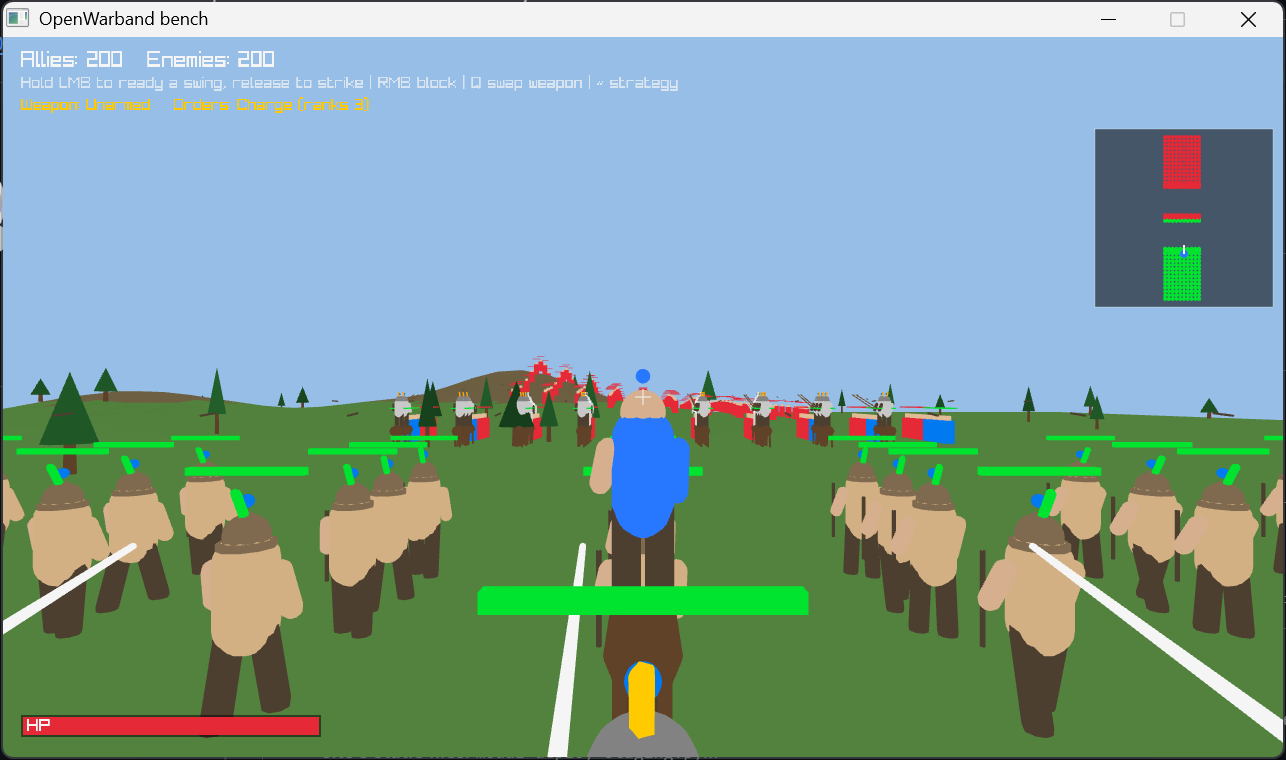
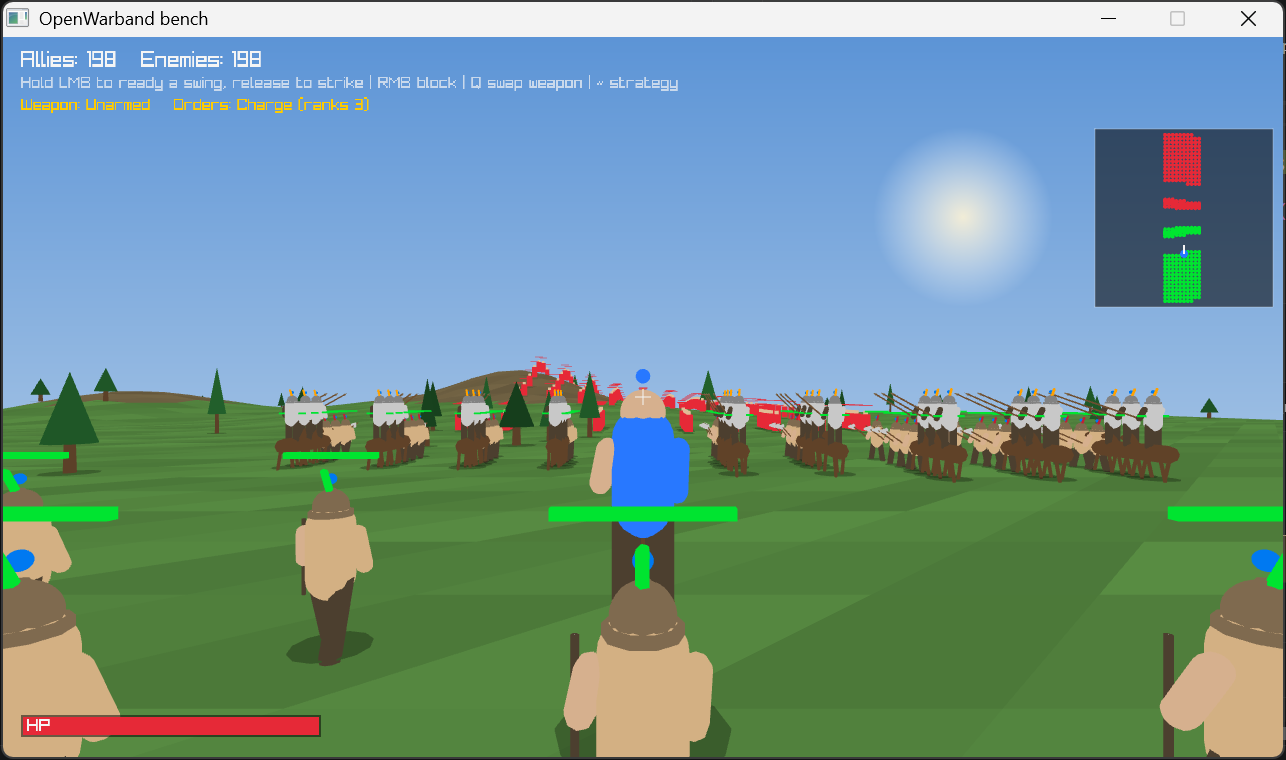
art: visual overhaul pass 1 — sky, sun, shadows, painted overworld
The user's bar: 'the game still does not look like a real video game.'
Pass 1 attacks the flatness:

- Battle sky is a vertical gradient with a glowing sun instead of a
  flat fill (ClearBackground kept first — it clears the depth buffer;
  dropping it blanked the whole 3D pass)
- Soft blob shadows pinned to the terrain under every soldier, horse,
  hero and tree — instant depth grounding
- Per-triangle color jitter so terrain reads textured, not vector-flat
- Campaign map painted: biome patches from the same noise as battle
  terrain, forest clumps, snow-capped mountain ridges, roads threading
  the settlements — replacing flat green + gridlines

README screenshots refreshed. Verified by windowed screenshots of both
scenes.

diff --git a/src/campaign/campaign.cpp b/src/campaign/campaign.cpp
@@ -846,14 +846,55 @@ void CampaignDraw(const GameState& gs) {
     const int nearSkirmish = NearestSkirmishIndex(gs);
 
     BeginDrawing();
-    ClearBackground(Color{ 60, 92, 48, 255 });
+    ClearBackground(Color{ 40, 58, 36, 255 });   // beyond the map's edge
 
     BeginMode2D(cam);
+    // Painted ground: biome patches from the SAME noise that shapes battle
+    // terrain, so the map foreshadows the battlefield you'd fight on.
+    constexpr int CELL = 100;
+    for (int gy = 0; gy < (int)MAP_SIZE / CELL; ++gy) {
+        for (int gx = 0; gx < (int)MAP_SIZE / CELL; ++gx) {
+            const float wx = gx * CELL + CELL * 0.5f;
+            const float wy = gy * CELL + CELL * 0.5f;
+            const float n1 = sinf(wx * 0.0031f) * cosf(wy * 0.0027f);   // hills
+            const float n2 = sinf(wx * 0.0012f + wy * 0.0019f);         // forests
+            const Color ground = { (unsigned char)(66 + 20.0f * n1),
+                                   (unsigned char)(98 + 14.0f * n2),
+                                   (unsigned char)(48 + 10.0f * n1), 255 };
+            DrawRectangle(gx * CELL, gy * CELL, CELL, CELL, ground);
+
+            unsigned int h = (unsigned)(gx * 73856093) ^ (unsigned)(gy * 19349663);
+            h ^= h >> 13;
+            if (n2 > 0.35f) {   // forest clumps
+                for (int t = 0; t < 5; ++t) {
+                    h = h * 1664525u + 1013904223u;
+                    const float tx = gx * CELL + (h & 63) + 16;
+                    const float ty = gy * CELL + ((h >> 8) & 63) + 16;
+                    DrawTriangle({ tx, ty }, { tx + 10, ty }, { tx + 5, ty - 16 },
+                                 Color{ 34, 66, 34, 255 });
+                }
+            } else if (n1 > 0.55f) {   // mountain ridges
+                for (int t = 0; t < 3; ++t) {
+                    h = h * 1664525u + 1013904223u;
+                    const float tx = gx * CELL + (h & 63) + 12;
+                    const float ty = gy * CELL + ((h >> 8) & 63) + 24;
+                    DrawTriangle({ tx, ty }, { tx + 22, ty }, { tx + 11, ty - 20 },
+                                 Color{ 118, 112, 108, 255 });
+                    DrawTriangle({ tx + 7, ty - 12 }, { tx + 15, ty - 12 },
+                                 { tx + 11, ty - 20 }, Color{ 226, 228, 232, 255 });
+                }
+            }
+        }
+    }
+
+    // Roads thread the settlements together.
+    for (int a = 0; a < (int)gs.towns.size(); ++a)
+        for (int b = a + 1; b < (int)gs.towns.size(); ++b)
+            if (Vector2Distance(gs.towns[a].pos, gs.towns[b].pos) < 1350)
+                DrawLineEx(gs.towns[a].pos, gs.towns[b].pos, 5,
+                           Fade(Color{ 128, 106, 76, 255 }, 0.45f));
+
     DrawRectangleLinesEx(Rectangle{ 0, 0, MAP_SIZE, MAP_SIZE }, 6, DARKBROWN);
-    for (int x = 0; x <= (int)MAP_SIZE; x += 200)
-        DrawLine(x, 0, x, (int)MAP_SIZE, Color{ 70, 102, 58, 255 });
-    for (int y = 0; y <= (int)MAP_SIZE; y += 200)
-        DrawLine(0, y, (int)MAP_SIZE, y, Color{ 70, 102, 58, 255 });
 
     for (const Town& t : gs.towns) {
         switch (t.type) {

diff --git a/src/battle/battle.cpp b/src/battle/battle.cpp
@@ -94,13 +94,18 @@ Color SurfaceColor(float height, float slope, float shade) {
     return c;
 }
 
-// Flat-shaded colour for a triangle from its three corners.
+// Flat-shaded colour for a triangle from its three corners, with a little
+// per-triangle jitter so the ground reads as textured, not vector-flat.
 Color TriangleColor(Vector3 a, Vector3 b, Vector3 c) {
     const Vector3 n = Vector3Normalize(
         Vector3CrossProduct(Vector3Subtract(b, a), Vector3Subtract(c, a)));
     const float slope = 1.0f - fabsf(n.y);
     const float h = (a.y + b.y + c.y) / 3.0f;
-    const float shade = 0.75f + 0.25f * fabsf(n.y);   // face the light a little
+    unsigned int hash = (unsigned)(a.x * 37.0f) * 73856093u ^
+                        (unsigned)(a.z * 41.0f) * 19349663u;
+    hash ^= hash >> 13;
+    const float jitter = 0.92f + 0.16f * ((hash & 0xFF) / 255.0f);
+    const float shade = (0.75f + 0.25f * fabsf(n.y)) * jitter;
     return SurfaceColor(h, slope, shade);
 }
 
@@ -347,6 +352,8 @@ void Terrain::Draw() const {
 
     // trees
     for (const Tree& t : trees_) {
+        DrawCylinder({ t.pos.x, t.pos.y + 0.04f, t.pos.z }, t.radius * 1.1f,
+                     t.radius * 1.1f, 0.02f, 10, Fade(BLACK, 0.25f));   // shadow
         const Vector3 base     = t.pos;
         const Vector3 trunkTop = { base.x, base.y + t.height * 0.4f, base.z };
         const Vector3 crownMid = { base.x, base.y + t.height * 0.3f, base.z };
@@ -785,6 +792,12 @@ AICmd ComputeAI(const Content& c, int i, float dt, FormationType formation,
 }
 
 Color TeamTint(Team t) { return t == Team::Enemy ? RED : BLUE; }
+
+// Soft blob shadow pinned to the terrain — the cheapest depth cue there is.
+void BlobShadow(const Terrain& t, float x, float z, float r) {
+    DrawCylinder({ x, t.HeightAt(x, z) + 0.04f, z }, r, r, 0.02f, 12,
+                 Fade(BLACK, 0.28f));
+}
 
 // The horse: barrel, neck + head, four trotting legs. The rider is drawn by
 // the caller, seated 1.25 above `pos`.
@@ -1227,7 +1240,12 @@ void BattleDraw(const Content& c) {
 
     // ================= DRAW =================
     BeginDrawing();
-    ClearBackground(Color{ 150, 190, 230, 255 });
+    ClearBackground(Color{ 92, 148, 214, 255 });   // also clears the DEPTH buffer
+    // Sky: a vertical gradient with a low sun, instead of a flat fill.
+    DrawRectangleGradientV(0, 0, GetScreenWidth(), GetScreenHeight(),
+                           Color{ 92, 148, 214, 255 }, Color{ 208, 224, 238, 255 });
+    DrawCircleGradient(GetScreenWidth() * 3 / 4, GetScreenHeight() / 4, 90,
+                       Fade(Color{ 255, 244, 214, 255 }, 0.9f), Fade(WHITE, 0.0f));
 
     BeginMode3D(cam);
     B.terrain.Draw();
@@ -1262,6 +1280,7 @@ void BattleDraw(const Content& c) {
             DrawCube({ s.pos.x, gy + 0.15f, s.pos.z }, 1.4f, 0.3f, 0.6f, Fade(DARKGRAY, 0.7f));
             continue;
         }
+        BlobShadow(B.terrain, s.pos.x, s.pos.z, IsMounted(c, s) ? 0.85f : 0.5f);
         if (Vector3DistanceSqr(cam.position, s.pos) > LOD_DIST_SQ) {
             const Color tint = TeamTint(s.team);
             DrawCube({ s.pos.x, s.pos.y + 0.95f, s.pos.z }, 0.7f, 1.5f, 0.45f, tint);
@@ -1309,6 +1328,7 @@ void BattleDraw(const Content& c) {
     ppose.blocking = B.blocking;
     ppose.walkPhase = B.walkPhase;
     ppose.weapon = B.setup.heroLoadout.get(EquipSlot::Weapon);
+    BlobShadow(B.terrain, B.pPos.x, B.pPos.z, B.mounted ? 0.85f : 0.5f);
     Vector3 heroDraw = B.pPos;
     if (B.mounted) {
         DrawHorse(B.pPos, B.yaw, B.walkPhase);